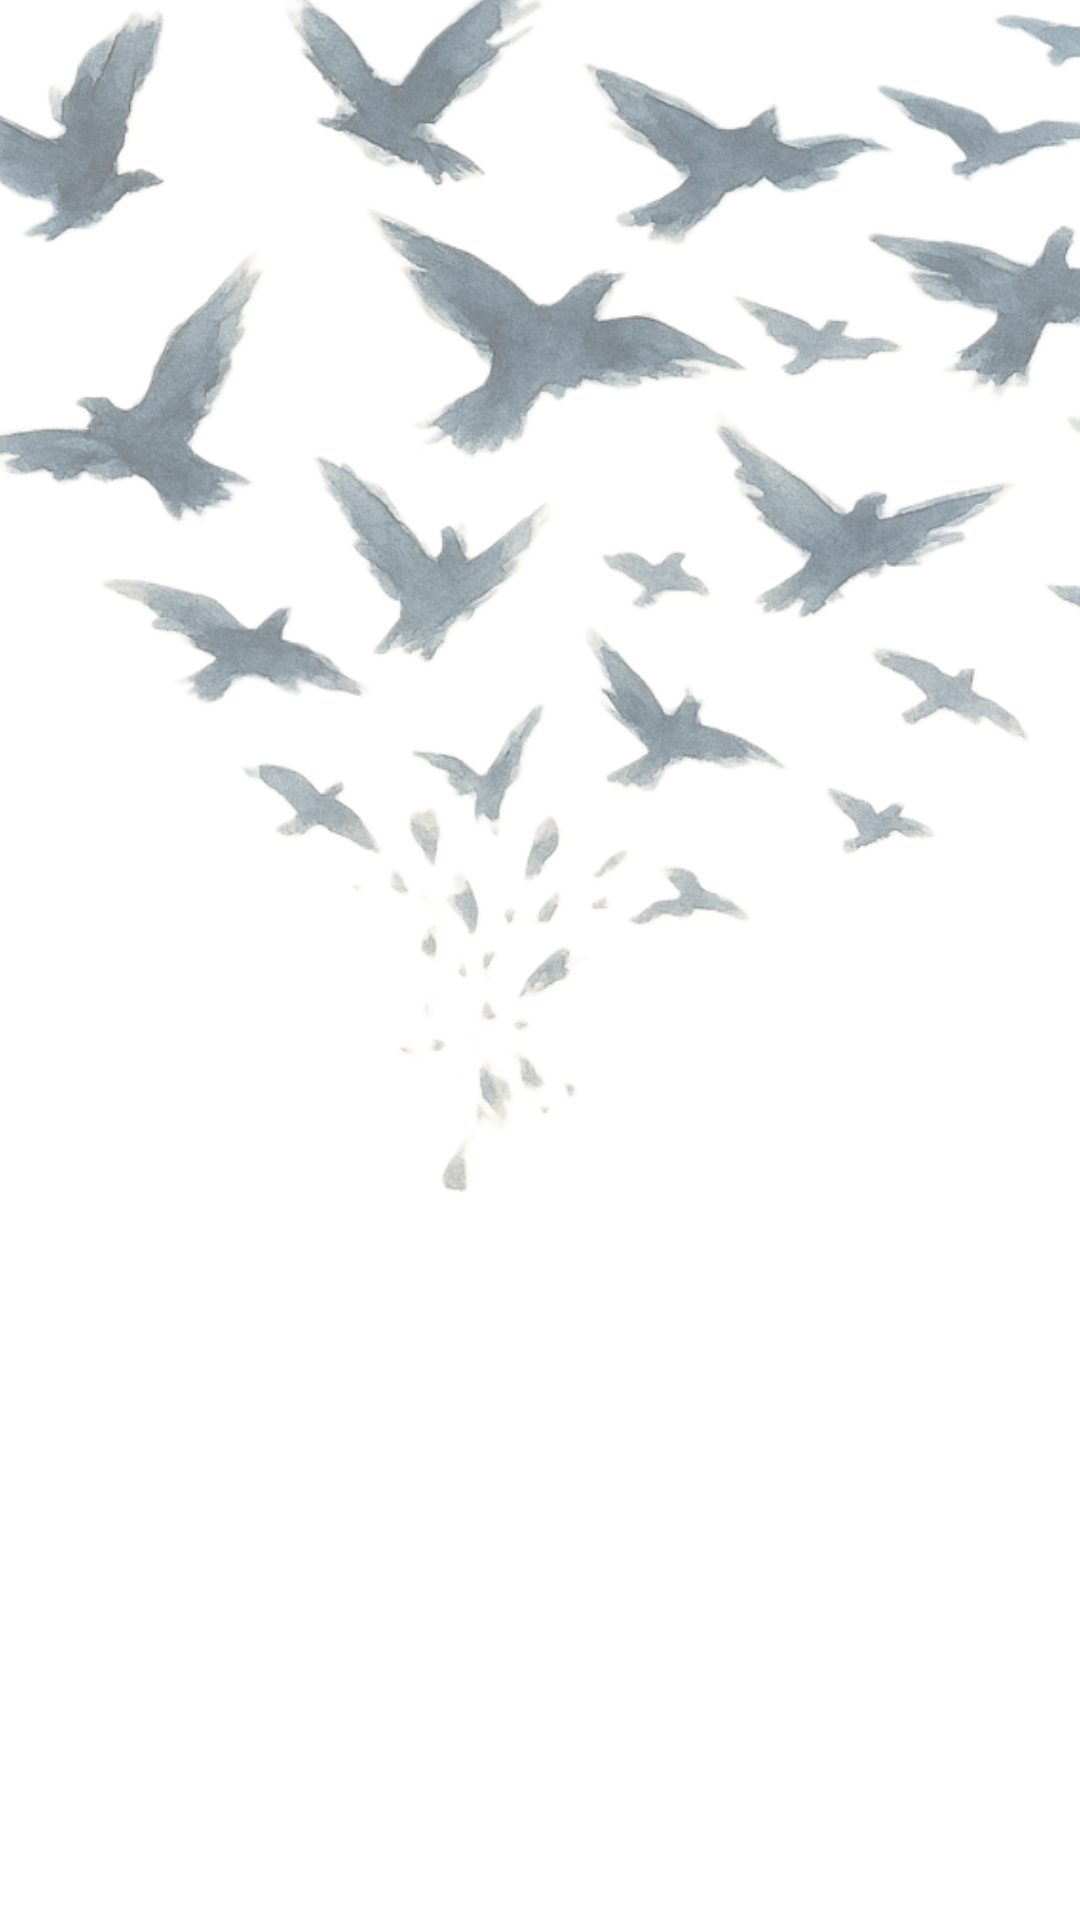
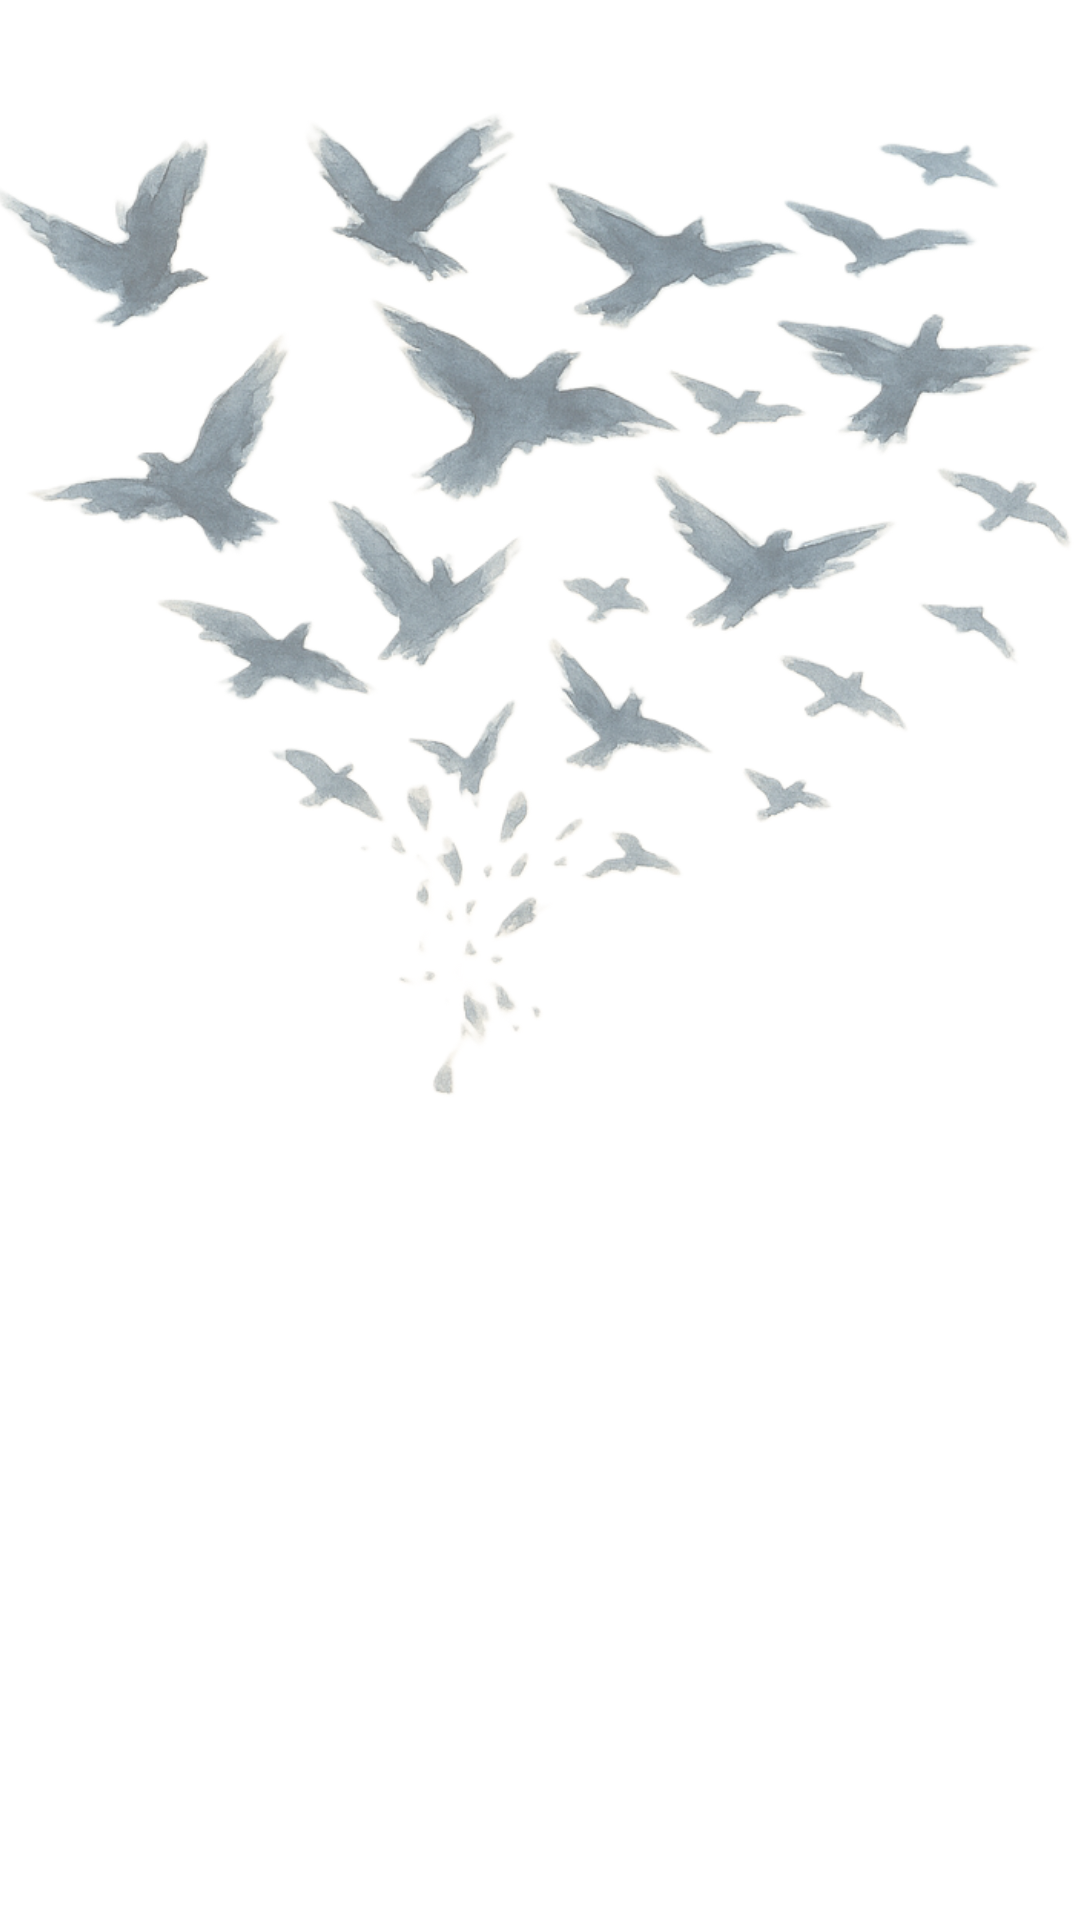
lol

Changed region(s): [[0.275, 0.0, 1.0, 0.5], [0.0, 0.0, 0.5194, 0.625], [0.9167, 0.0, 1.0, 0.0312]]

diff --git a/src/App.jsx b/src/App.jsx
@@ -14,11 +14,11 @@ export default function App() {
       <img
         src="/passaros-flutuando.png"
         alt="Pássaros"
-        className="absolute bottom-[48%] left-1/2 w-[40vw] max-w-[200px] object-contain z-100 animate-fly pointer-events-none"
+        className="absolute bottom-[48%] left-1/2 w-[100vw] max-w-[720px] object-contain z-100 animate-fly pointer-events-none"
       />
 
       {/* Frase central */}
-      <div className="absolute bottom-[50%] md:bottom-[38%] left-1/2 -translate-x-1/2 z-40 px-4">
+      <div className="absolute bottom-[47%] md:bottom-[38%] left-1/2 -translate-x-1/2 z-40 px-4">
         <h1 className="text-black text-lg sm:text-xl md:text-2xl lg:text-3xl xl:text-4xl font-bold tracking-widest uppercase max-w-md text-center drop-shadow-md leading-relaxed">
           Você chegou até aqui.<br />Isso é tudo.
         </h1>
